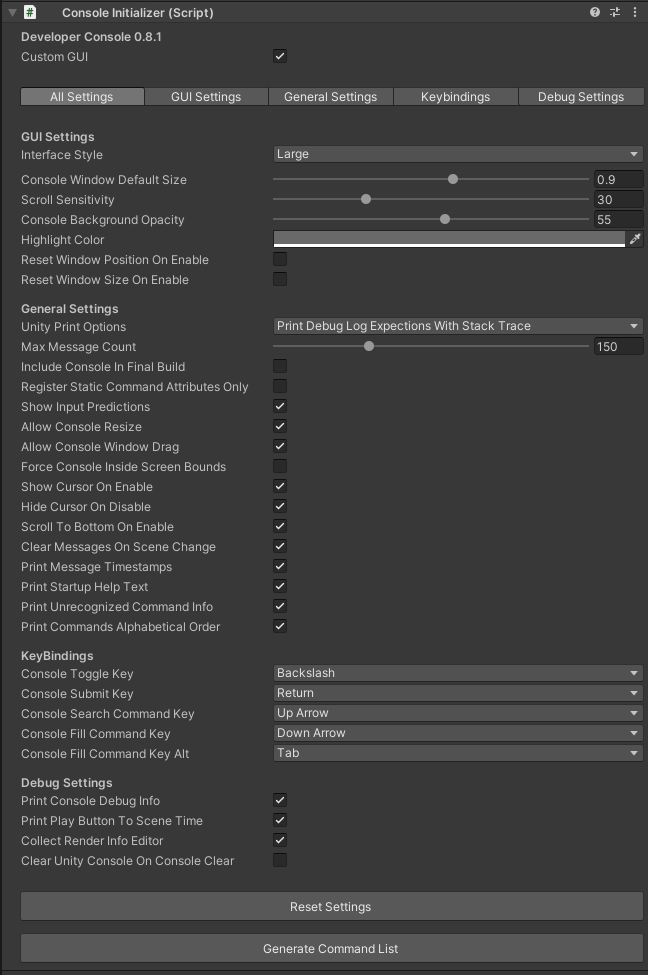
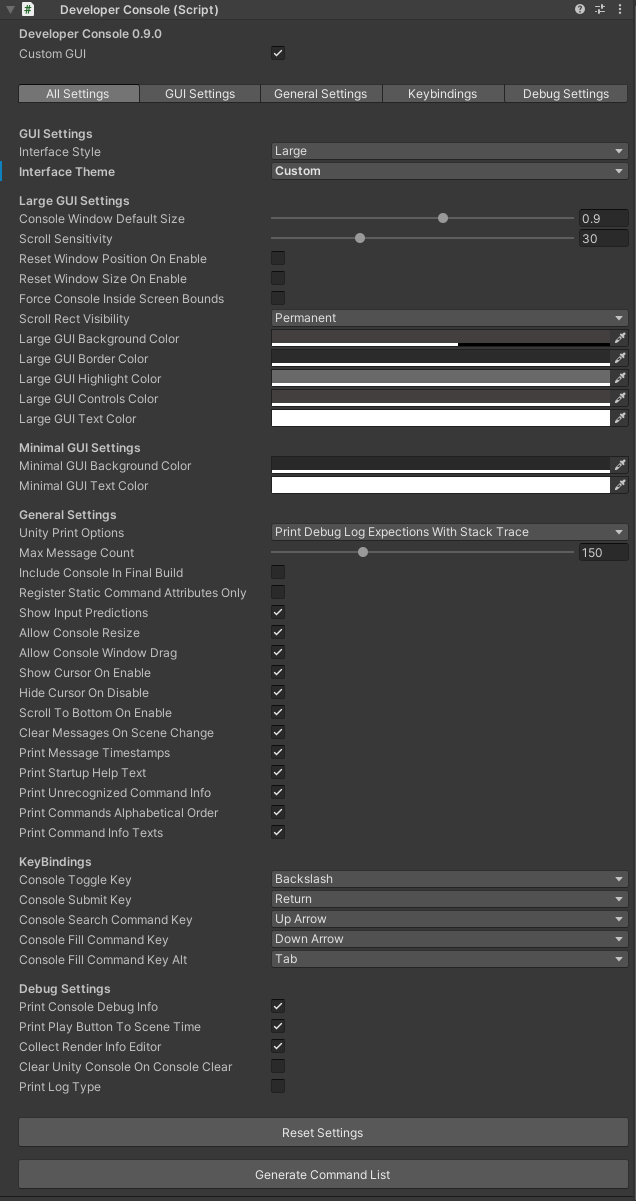
renamed some settings

Changed region(s): [[0.0, 0.0, 1.0, 1.0], [0.4182, 0.4923, 0.4481, 0.6462]]

diff --git a/Console/Assets/DeveloperConsole/Scripts/ConsoleSettings.cs b/Console/Assets/DeveloperConsole/Scripts/ConsoleSettings.cs
@@ -10,10 +10,10 @@ namespace Anarkila.DeveloperConsole {
         [Header("GUI Settings")]
 
         [Tooltip("GUI style to use")]
-        public ConsoleGUIStyle InterfaceStyle = ConsoleGUIStyle.Large;
+        public ConsoleGUIStyle interfaceStyle = ConsoleGUIStyle.Large;
 
         [Tooltip("GUI Theme to use")]
-        public GUITheme InterfaceTheme = GUITheme.Dark;
+        public GUITheme interfaceTheme = GUITheme.Dark;
 
 
         [Header("Large GUI Settings")]
@@ -30,6 +30,9 @@ namespace Anarkila.DeveloperConsole {
 
         [Tooltip("Whether to reset console window size back to default when console is opened (Large GUI only)")]
         public bool resetWindowSizeOnEnable = false;
+
+        [Tooltip("Whether force console to be inside screen bounds, both resize and drag")]
+        public bool forceConsoleInsideScreenBounds = false;
 
         [Tooltip("ScrollRect scrollbar visibility")]
         public ScrollRect.ScrollbarVisibility ScrollRectVisibility = ScrollRect.ScrollbarVisibility.Permanent;
@@ -55,7 +58,7 @@ namespace Anarkila.DeveloperConsole {
         public Color minimalGUIBackgroundColor = new Color(0.16f, 0.16f, 0.16f, 1f);
 
         [Tooltip("Minimal GUI all text color")]
-        public Color MinimalGUITextColor = new Color(1f, 1f, 1f, 1f);
+        public Color minimalGUITextColor = new Color(1f, 1f, 1f, 1f);
 
         [Header("General Settings")]
         public PrintOptions unityPrintOptions = PrintOptions.PrintDebugLogExpectionsWithStackTrace;
@@ -79,9 +82,6 @@ namespace Anarkila.DeveloperConsole {
 
         [Tooltip("Allow Console Dragging (Large GUI only)")]
         public bool allowConsoleWindowDrag = true;
-
-        [Tooltip("Whether force console to be inside screen bounds, both resize and drag")]
-        public bool ForceConsoleInsideScreenBounds = false;
 
         [Tooltip("Show Cursor when Console is opened")]
         public bool showCursorOnEnable = true;
@@ -130,15 +130,15 @@ namespace Anarkila.DeveloperConsole {
         public bool collectRenderInfoEditor = true;
 
         [Tooltip("Whether to clear Unity Console too when  command 'clear' called'")]
-        public bool ClearUnityConsoleOnConsoleClear = false;
+        public bool clearUnityConsoleOnConsoleClear = false;
 
         [Tooltip("whether to print Unity log type. ")]
         public bool printLogType = false;
 
         public void SetColors() {
-            if (InterfaceTheme == GUITheme.Custom) return;
+            if (interfaceTheme == GUITheme.Custom) return;
 
-            switch (InterfaceTheme) {
+            switch (interfaceTheme) {
 
                 case GUITheme.Dark: // default theme
                     largeGUIBackgroundColor = new Color(0.2588f, 0.2470f, 0.2431f, 0.55f);
@@ -148,7 +148,7 @@ namespace Anarkila.DeveloperConsole {
                     largeGUITextColor = new Color(1f, 1f, 1f, 1f);
 
                     minimalGUIBackgroundColor = new Color(0.16f, 0.16f, 0.16f, 1f);
-                    MinimalGUITextColor = new Color(1f, 1f, 1f, 1f);
+                    minimalGUITextColor = new Color(1f, 1f, 1f, 1f);
                     break;
 
                 case GUITheme.Red:
@@ -159,7 +159,7 @@ namespace Anarkila.DeveloperConsole {
                     largeGUITextColor = new Color(1f, 0f, 0f, 1f);
 
                     minimalGUIBackgroundColor = new Color(0f, 0f, 0f, 1f);
-                    MinimalGUITextColor = new Color(1f, 0f, 0f, 1f);
+                    minimalGUITextColor = new Color(1f, 0f, 0f, 1f);
                     break;
 
                 default:
@@ -170,7 +170,7 @@ namespace Anarkila.DeveloperConsole {
                     largeGUITextColor = new Color(1f, 1f, 1f, 1f);
 
                     minimalGUIBackgroundColor = new Color(0.16f, 0.16f, 0.16f, 1f);
-                    MinimalGUITextColor = new Color(1f, 1f, 1f, 1f);
+                    minimalGUITextColor = new Color(1f, 1f, 1f, 1f);
                     break;
             }
         }

diff --git a/Console/Assets/DeveloperConsole/Scripts/ConsoleManager.cs b/Console/Assets/DeveloperConsole/Scripts/ConsoleManager.cs
@@ -85,7 +85,7 @@ namespace Anarkila.DeveloperConsole {
         private static void ConsoleClearEvent() {
             if (settings == null) return;
 
-            if (settings.ClearUnityConsoleOnConsoleClear) {
+            if (settings.clearUnityConsoleOnConsoleClear) {
                 var assembly = System.Reflection.Assembly.GetAssembly(typeof(UnityEditor.Editor));
                 var type = assembly.GetType("UnityEditor.LogEntries");
                 var method = type.GetMethod("Clear");
@@ -138,7 +138,7 @@ namespace Anarkila.DeveloperConsole {
         /// </summary>
         /// <returns></returns>
         public static ConsoleGUIStyle GetGUIStyle() {
-            return settings.InterfaceStyle;
+            return settings.interfaceStyle;
         }
 
         /// <summary>
@@ -158,7 +158,7 @@ namespace Anarkila.DeveloperConsole {
 
             settings = newsettings;
             SetPredictions(settings.showInputPredictions);
-            GUIStyleChanged(settings.InterfaceStyle);
+            GUIStyleChanged(settings.interfaceStyle);
             if (settings.unityPrintOptions == PrintOptions.DontPrintDebugLogs) {
                 Application.logMessageReceived -= UnityLogEventCallback;
             }
@@ -212,7 +212,7 @@ namespace Anarkila.DeveloperConsole {
         public static void ToggleInterfaceStyle(bool reOpenConsole = true) {
             if (reOpenConsole) ConsoleEvents.CloseConsole();
 
-            if (settings.InterfaceStyle == ConsoleGUIStyle.Large) {
+            if (settings.interfaceStyle == ConsoleGUIStyle.Large) {
                 ConsoleEvents.ChangeGUIStyle(ConsoleGUIStyle.Minimal);
             }
             else {
@@ -236,7 +236,7 @@ namespace Anarkila.DeveloperConsole {
         }
 
         private static void GUIStyleChanged(ConsoleGUIStyle style) {
-            settings.InterfaceStyle = style;
+            settings.interfaceStyle = style;
 
             if (consoleInitialized) {
                 CommandDatabase.UpdateLists();
@@ -264,7 +264,7 @@ namespace Anarkila.DeveloperConsole {
         }
 
         private static void UnityLogEventCallback(string text, string stackTrace, LogType type) {
-            if (settings == null || settings.InterfaceStyle == ConsoleGUIStyle.Minimal
+            if (settings == null || settings.interfaceStyle == ConsoleGUIStyle.Minimal
                 || settings.unityPrintOptions == PrintOptions.DontPrintDebugLogs) return;
 
 

diff --git a/Console/Assets/DeveloperConsole/Editor/DeveloperConsoleEditor.cs b/Console/Assets/DeveloperConsole/Editor/DeveloperConsoleEditor.cs
@@ -38,13 +38,13 @@ namespace Anarkila.DeveloperConsole {
             for (int i = 0; i < fieldValues.Count; i++) {
                 var name = setting + fieldValues[i];
 
-                if (0 <= i && i <= 13) {
+                if (0 <= i && i <= 14) {
                     AppendToList(guiSettings, name);
                 }
-                else if (14 <= i && i <= 30) {
+                else if (15 <= i && i <= 31) {
                     AppendToList(generalSettings, name);
                 }
-                else if (31 <= i && i <= 35) {
+                else if (32 <= i && i <= 36) {
                     AppendToList(keybindings, name);
                 }
                 else {
@@ -116,10 +116,9 @@ namespace Anarkila.DeveloperConsole {
 
         private void RenderGUISettings() {
             //Render(guiSettings);
-
-            bool customTheme = myTarget.settings.InterfaceTheme == GUITheme.Custom;
+            bool customTheme = myTarget.settings.interfaceTheme == GUITheme.Custom;
             for (int i = 0; i < guiSettings.Count; i++) {
-                if (!customTheme && i >= 6) {
+                if (!customTheme && i >= 7) {
                     continue;
                 }
                 EditorGUILayout.PropertyField(guiSettings[i]);

diff --git a/Console/Assets/DeveloperConsole/Scripts/ConsoleWindowDragger.cs b/Console/Assets/DeveloperConsole/Scripts/ConsoleWindowDragger.cs
@@ -40,7 +40,7 @@ namespace Anarkila.DeveloperConsole {
         private void Start() {
             var settings = ConsoleManager.GetSettings();
             if (settings != null) {
-                forceInsideScreenBounds = settings.ForceConsoleInsideScreenBounds;
+                forceInsideScreenBounds = settings.forceConsoleInsideScreenBounds;
                 allowWindowDragging = settings.allowConsoleWindowDrag;
                 resetWindowPositionOnEnable = settings.resetWindowPositionOnEnable;
             }

diff --git a/Console/Assets/DeveloperConsole/Scripts/ConsoleTextColor.cs b/Console/Assets/DeveloperConsole/Scripts/ConsoleTextColor.cs
@@ -13,7 +13,7 @@ namespace Anarkila.DeveloperConsole {
             if (settings == null) return;
 
             if (TryGetComponent(out TMP_Text textComponent)) {
-                var color = style == ConsoleGUIStyle.Large ? settings.largeGUITextColor : settings.MinimalGUITextColor;
+                var color = style == ConsoleGUIStyle.Large ? settings.largeGUITextColor : settings.minimalGUITextColor;
                 textComponent.color = color;
             }
         }

diff --git a/Console/Assets/DeveloperConsole/Scripts/WindowResizer.cs b/Console/Assets/DeveloperConsole/Scripts/WindowResizer.cs
@@ -60,7 +60,7 @@ namespace Anarkila.DeveloperConsole {
 
             var settings = ConsoleManager.GetSettings();
             if (settings != null) {
-                forceInsideScreenBounds = settings.ForceConsoleInsideScreenBounds;
+                forceInsideScreenBounds = settings.forceConsoleInsideScreenBounds;
                 resetWindowSizeOnEnable = settings.resetWindowPositionOnEnable;
                 var size = settings.consoleWindowDefaultSize;
 

diff --git a/Console/Assets/DeveloperConsole/Scripts/ConsoleMessageHandler.cs b/Console/Assets/DeveloperConsole/Scripts/ConsoleMessageHandler.cs
@@ -75,7 +75,7 @@ namespace Anarkila.DeveloperConsole {
             var settings = ConsoleManager.GetSettings();
             if (settings != null) {
                 maxMessageCount = settings.maxMessageCount;
-                currentGUIStyle = settings.InterfaceStyle;
+                currentGUIStyle = settings.interfaceStyle;
             }
             PoolObjects();
             HandleGhostMessages();

diff --git a/Console/Assets/DeveloperConsole/Scripts/ConsoleController.cs b/Console/Assets/DeveloperConsole/Scripts/ConsoleController.cs
@@ -33,7 +33,7 @@ namespace Anarkila.DeveloperConsole {
         }
 
         private void SetDeveloperConsoleState(bool enable) {
-            switch (settings.InterfaceStyle) {
+            switch (settings.interfaceStyle) {
                 case ConsoleGUIStyle.Minimal:
                     minimalConsole.SetActive(enable);
                     break;
